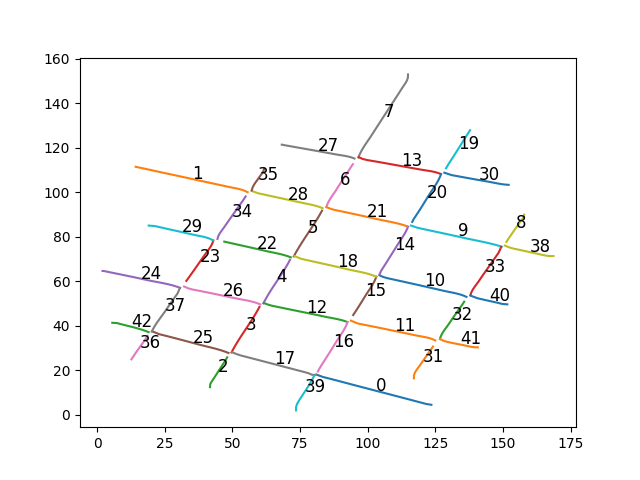
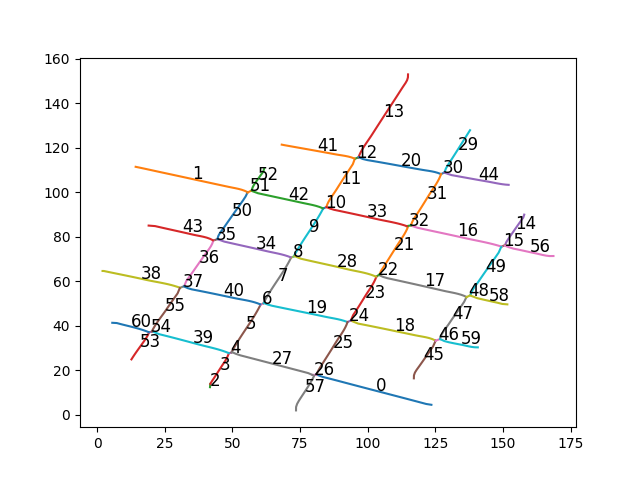
frag2_completed 90%

diff --git a/scripts/curve_completion.py b/scripts/curve_completion.py
@@ -1,4 +1,4 @@
-from split_disjoint import split_polylines_to_disjoint, extend_and_connect_polylines
+from split_disjoint import split_polylines_to_disjoint, extend_and_connect_polylines, points_are_close
 from helper import read_csv, plot_simple, plot
 from matplotlib import pyplot as plt
 from detect_shapes import fit_shape, calculate_polygon_error, fit_line
@@ -7,25 +7,57 @@ import numpy as np
 # Try fitting shapes to the connected polylines for completion
 def complete_curves(polylines):
     result = []
-    i = 0
-    for polyline in polylines:
+    polylines.sort(key=lambda x: len(x), reverse=True)
+
+    for i, polyline in enumerate(polylines):
         if result:
             flag = False
-            for fitted_shapes in result:
+            for j, fitted_shapes in enumerate(result):
                 if fitted_shapes[3] == 'line':
                     m, b = fitted_shapes[4][0]
                     mean_distance = np.mean(np.abs(polyline[:, 1] - m * polyline[:, 0] - b))
-                    if mean_distance < 5:
-                        new_points = np.vstack((fitted_shapes[1], polyline))
+                    if mean_distance < 10:
+                        e11, e12 = polyline[0], polyline[-1]
+                        e21, e22 = fitted_shapes[1][0], fitted_shapes[1][-1]
+
+                        dist_e11_e21 = np.linalg.norm(e11 - e21)
+                        dist_e11_e22 = np.linalg.norm(e11 - e22)
+                        dist_e12_e21 = np.linalg.norm(e12 - e21)
+                        dist_e12_e22 = np.linalg.norm(e12 - e22)
+
+                        distances = [dist_e11_e21, dist_e11_e22, dist_e12_e21, dist_e12_e22]
+                        min_distance_index = np.argmin(distances)
+
+                        if min_distance_index == 0:
+                            new_points = np.concatenate((polyline[::-1], fitted_shapes[1]), axis=0)
+                        elif min_distance_index == 1:
+                            new_points = np.concatenate((fitted_shapes[1], polyline), axis=0)
+                        elif min_distance_index == 2:
+                            new_points = np.concatenate((polyline, fitted_shapes[1]), axis=0)
+                        else:
+                            new_points = np.concatenate((polyline, fitted_shapes[1][::-1]), axis=0)
                         _, best_points, symmetry_lines = fit_line(new_points)
-                        result[fitted_shapes[0]] = [fitted_shapes[0], new_points, best_points, "line", symmetry_lines]
+                        fitted_shapes[0] = fitted_shapes[0].union({i})
+                        result[j] = [fitted_shapes[0], new_points, best_points, "line", symmetry_lines]
                         flag = True
                         break
 
                 if calculate_polygon_error(polyline, fitted_shapes[2]) < 10:
-                    new_points = np.vstack((fitted_shapes[1], polyline))
+                    e11, e12 = polyline[0], polyline[-1]
+                    e21, e22 = fitted_shapes[1][0], fitted_shapes[1][-1]
+                    if points_are_close(e11, e21):
+                        new_points = np.concatenate((polyline, fitted_shapes[1][::-1]), axis=0)
+                    elif points_are_close(e11, e22):
+                        new_points = np.concatenate((polyline, fitted_shapes[1]), axis=0)
+                    elif points_are_close(e12, e21):
+                        new_points = np.concatenate((fitted_shapes[1], polyline), axis=0)
+                    elif points_are_close(e12, e22):
+                        new_points = np.concatenate((fitted_shapes[1][::-1], polyline), axis=0)
+                    else:
+                        new_points = np.concatenate((fitted_shapes[1], polyline), axis=0)
                     best_points, _, best_shape, symmetry_lines = fit_shape(new_points)
-                    result[fitted_shapes[0]] = [fitted_shapes[0], new_points, best_points, best_shape, symmetry_lines]
+                    fitted_shapes[0] = fitted_shapes[0].union({i})
+                    result[j] = [fitted_shapes[0], new_points, best_points, best_shape, symmetry_lines]
                     flag = True
                     break
             if flag:
@@ -33,9 +65,8 @@ def complete_curves(polylines):
         
         best_points, lowest_error, best_shape, symmetry_lines = fit_shape(polyline)
         if lowest_error < 10:
-            result.append([i, polyline, best_points, best_shape, symmetry_lines])
-            i += 1
-            
+            result.append([{i}, polyline, best_points, best_shape, symmetry_lines])
+
     return result
 
 if __name__ == '__main__':
@@ -50,6 +81,9 @@ if __name__ == '__main__':
     connected_polylines = extend_and_connect_polylines(disjoint_polylines)
 
     result = complete_curves(connected_polylines)
+    for i, r in enumerate(result):
+        print(f"Completed curve {i}: {r[0]}")
+
     completed_polylines = [r[2] for r in result]
     names = [r[3] for r in result]
     best_symmetry_lines = [r[4] for r in result]

diff --git a/scripts/split_disjoint.py b/scripts/split_disjoint.py
@@ -35,9 +35,9 @@ def split_polylines_to_disjoint(polylines):
             for j in range(len(cur_line) - 2):
                 p1, p2, p3 = cur_line[j], cur_line[j+1], cur_line[j+2]
                 angle_diff = angle_difference(calculate_angle(calculate_slope(p1, p2)), calculate_angle(calculate_slope(p2, p3)))
-                if angle_diff >= 30:
+                if angle_diff >= 20:
                     new_line_1 = cur_line[:j+2]
-                    new_line_2 = cur_line[j+2:]
+                    new_line_2 = cur_line[j+1:]
                     if len(new_line_1) < 4:
                         e1 = 0.9
                     else:
@@ -162,7 +162,7 @@ def merge_close_points_if_unique(extended_polylines, tolerance=1e-5):
 
     return merged_polylines
 
-def extend_and_connect_polylines(disjoint_polylines, angle_threshold=30):
+def extend_and_connect_polylines(disjoint_polylines, angle_threshold=20):
     visited = set()
     extended_polylines = []
 
@@ -266,26 +266,26 @@ def extend_and_connect_polylines(disjoint_polylines, angle_threshold=30):
     extended_polylines = [polyline for polyline in extended_polylines if len(polyline) > 0]
 
     # Perform the final merge of close points only if they are unique
-    final_polylines = merge_close_points_if_unique(extended_polylines)
+    # final_polylines = merge_close_points_if_unique(extended_polylines)
 
-    return final_polylines
+    return extended_polylines
 
 # Sample usage
-# path = r'problems\problems\frag2.csv'
-# polylines = read_csv(path)
-# disjoint_polylines = split_polylines_to_disjoint(polylines)
-# extended_polylines = extend_and_connect_polylines(disjoint_polylines)
+path = r'problems\problems\frag2.csv'
+polylines = read_csv(path)
+disjoint_polylines = split_polylines_to_disjoint(polylines)
+extended_polylines = extend_and_connect_polylines(disjoint_polylines)
 
-# print(f"Original polylines: {len(polylines)}")
-# print(f"Disjoint polylines: {len(disjoint_polylines)}")
-# print(f"Extended polylines: {len(extended_polylines)}")
+print(f"Original polylines: {len(polylines)}")
+print(f"Disjoint polylines: {len(disjoint_polylines)}")
+print(f"Extended polylines: {len(extended_polylines)}")
 
-# # Visualization
-# plt.figure()
+# Visualization
+plt.figure()
 
-# for i, polyline in enumerate(extended_polylines):
-#     plt.plot(polyline[:, 0], polyline[:, 1], label=f'Polyline {i}')
-#     midpoint = np.mean(polyline, axis=0)
-#     plt.text(midpoint[0], midpoint[1], f'{i}', fontsize=12)
+for i, polyline in enumerate(extended_polylines):
+    plt.plot(polyline[:, 0], polyline[:, 1], label=f'Polyline {i}')
+    midpoint = np.mean(polyline, axis=0)
+    plt.text(midpoint[0], midpoint[1], f'{i}', fontsize=12)
     
-# plt.show()
+plt.show()

diff --git a/scripts/detect_shapes.py b/scripts/detect_shapes.py
@@ -54,7 +54,7 @@ def fit_shape(points):
         # Check if the points are symmetric
         centroid = find_centroid(points)
         symmetry_line, error = find_reflection_symmetry_parallel(points, centroid)
-        if error < 1:
+        if error < 1.1:
             return points, error, "closed", [symmetry_line]
     
     # Fit different shapes and calculate errors
@@ -81,6 +81,12 @@ def fit_shape(points):
     lowest_error = errors[0][1]
     best_points = errors[0][2]
     symmetry_lines = errors[0][3]
+
+    if errors[1][0] == "line" and abs(errors[1][1] - lowest_error) < 0.075:
+        best_shape = "line"
+        best_points = errors[1][2]
+        symmetry_lines = errors[1][3]
+        lowest_error = errors[1][1]
 
     print(f"Errors: line={line_error:.2f}, rectangle={rectangle_error:.9f}, ellipse={ellipse_error:.2f}, "
           f"star={star_error:.2f}, triangle={triangle_error:.2f}, "
@@ -259,9 +265,19 @@ def fit_star(points):
     
     return star_error, star_points, symmetry_lines
 
+def is_regular_polygon(polygon_points):
+    # Calculate distances between consecutive points (side lengths)
+    side_lengths = np.linalg.norm(np.roll(polygon_points, -1, axis=0) - polygon_points, axis=1)
+    # Calculate angles between consecutive edges
+    vectors = np.roll(polygon_points, -1, axis=0) - polygon_points
+    angles = np.arccos(np.clip(np.dot(vectors[:-1], vectors[1:].T), -1.0, 1.0))  # Clip values to avoid numerical errors
+
+    # Check if all sides are of equal length and all angles are equal
+    return np.allclose(side_lengths, side_lengths[0]) and np.allclose(angles, angles[0])
+
 def fit_triangle(points):
     hull = cv2.convexHull(np.array(points, dtype=np.float32))
-    if len(hull) != 3:
+    if len(hull) != 3 or not is_regular_polygon(hull[:, 0, :]):
         return float('inf'), points, []
     triangle_points = hull[:, 0, :]
     triangle_error = calculate_polygon_error(points, triangle_points)
@@ -270,7 +286,7 @@ def fit_triangle(points):
 
 def fit_pentagon(points):
     hull = cv2.convexHull(np.array(points, dtype=np.float32))
-    if len(hull) != 5:
+    if len(hull) != 5 or not is_regular_polygon(hull[:, 0, :]):
         return float('inf'), points, []
     pentagon_points = hull[:, 0, :]
     pentagon_error = calculate_polygon_error(points, pentagon_points)
@@ -279,7 +295,7 @@ def fit_pentagon(points):
 
 def fit_hexagon(points):
     hull = cv2.convexHull(np.array(points, dtype=np.float32))
-    if len(hull) != 6:
+    if len(hull) != 6 or not is_regular_polygon(hull[:, 0, :]):
         return float('inf'), points, []
     hexagon_points = hull[:, 0, :]
     hexagon_error = calculate_polygon_error(points, hexagon_points)

diff --git a/scripts/helper.py b/scripts/helper.py
@@ -65,6 +65,6 @@ def plot_simple(paths_XYs, filename=''):
             ax.set_aspect('equal')
             average_XY = np.mean(XY, axis=0)
             ax.text(average_XY[0], average_XY[1], str(i) + ' ' + str(j), fontsize=12, color=c, ha='center')
-    # plt.savefig(f'misc-outputs/{filename}')
+    plt.savefig(f'misc-outputs/{filename}')
     plt.show()
     
